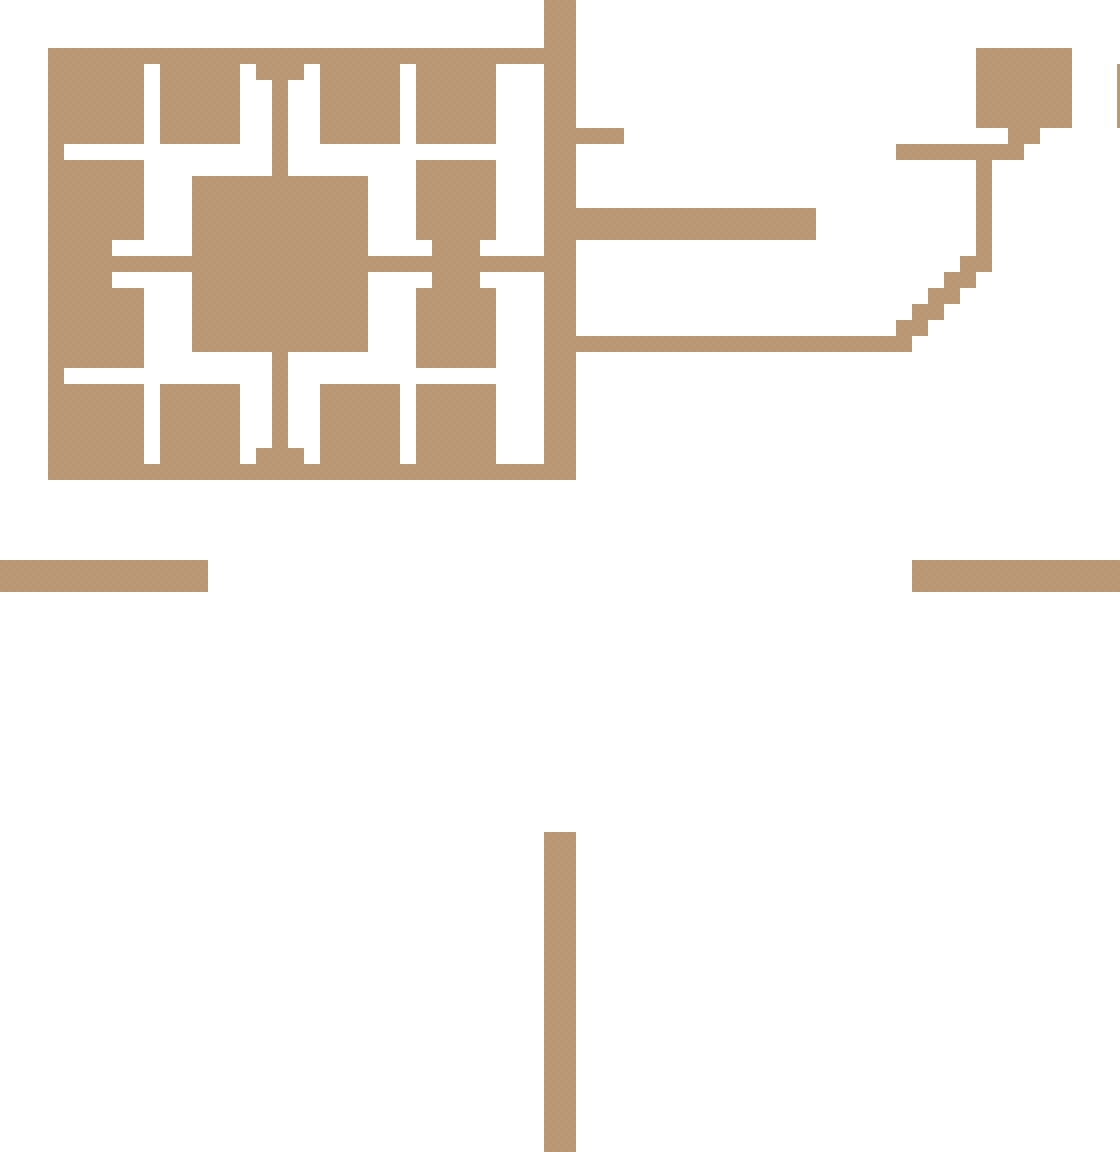
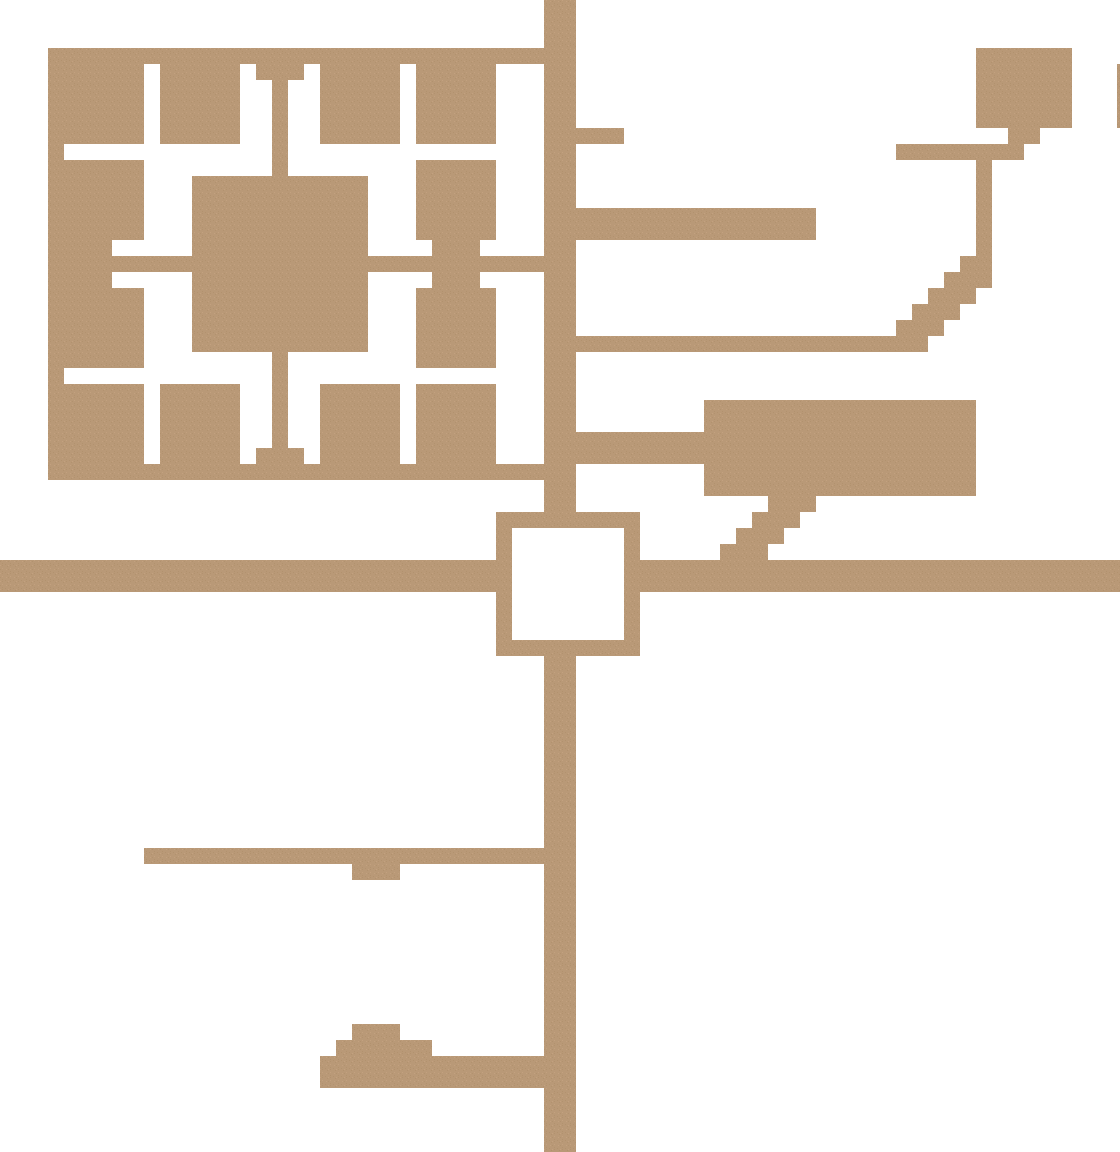
0.5.0.3 lvl003-Y creation of some roads (texture)

diff --git a/ReversedRebecca/src/com/sunsigne/reversedrebecca/Infos.java b/ReversedRebecca/src/com/sunsigne/reversedrebecca/Infos.java
@@ -17,7 +17,7 @@ public class Infos {
 	////////// GAME ////////////
 
 	public static final String NAME = "Reversed Rebecca";
-	public static final String VERSION = "v.0.5.0.2";
+	public static final String VERSION = "v.0.5.0.3";
 	// public static final boolean IS_DEV_VERSION =
 	// System.getProperty("java.class.path").contains("\\git\\");
 	public static boolean IS_DEV_VERSION = true;
